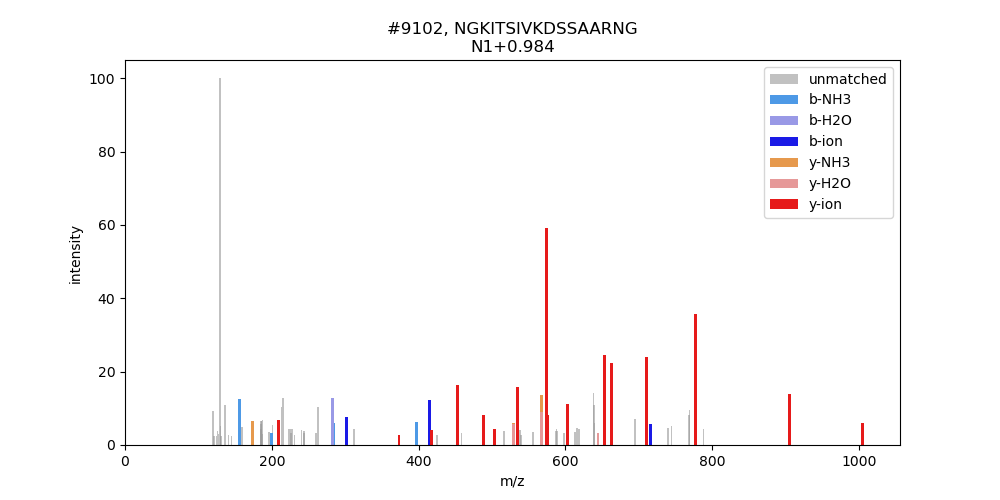
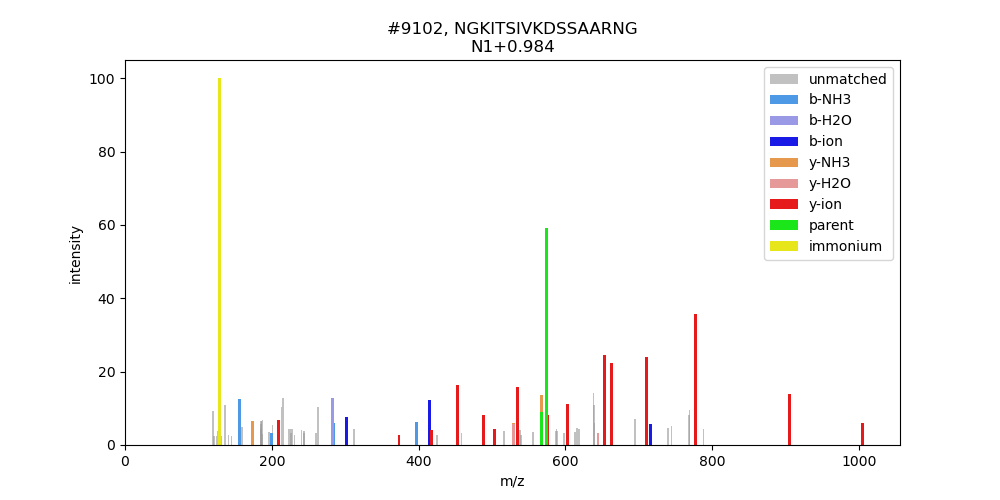
Add files via upload

Changed region(s): [[0.744, 0.42, 0.899, 0.51], [0.527, 0.81, 0.558, 0.9]]

diff --git a/scan_graph.py b/scan_graph.py
@@ -61,6 +61,8 @@ def GetDelta(_delta):
 			delta = -1.0*(isotopes['C'] + 4*isotopes['H'] + isotopes['S'] + isotopes['O'])
 		elif _delta == '-H3PO4':
 			delta = -1.0*(3*isotopes['H'] + isotopes['P'] + 4*isotopes['O'])
+		elif _delta == '-H5PO5':
+			delta = -1.0*(5*isotopes['H'] + isotopes['P'] + 5*isotopes['O'])
 		else:
 			# check to see if _delta is a number
 			try:
@@ -89,6 +91,52 @@ def GetYs(_pep,_delta = None):
 	for m in ms:
 		cvalue += m
 		rvs.append(cvalue)
+	return rvs
+
+# calculate the neutral masses of parent ions and fragments
+def GetParents(_pep):
+	difs = [GetDelta('-H2O'),2.0*GetDelta('-H2O')]
+	phospho = isotopes['H'] + 3*isotopes['O'] + isotopes['P']
+	for m in _pep['mods']:
+		if _pep['seq'][m-1] == 'M' and abs(_pep['mods'] - isotopes['O']) < 0.01:
+			difs.append(GetDelta('-CH4SO'))
+		elif _pep['seq'][m-1] == 'S' and abs(_pep['mods'] - phospho) < 0.01:
+			difs.append(GetDelta('-H3PO4'))
+			difs.append(GetDelta('-H5PO5'))
+		elif _pep['seq'][m-1] == 'T' and abs(_pep['mods'] - phospho) < 0.01:
+			difs.append(GetDelta('-H3PO4'))
+			difs.append(GetDelta('-H5PO5'))
+		elif _pep['seq'][m-1] == 'Y' and abs(_pep['mods'] - phospho) < 0.01:
+			difs.append(GetDelta('-H3PO4'))
+			difs.append(GetDelta('-H5PO5'))
+	dY = 2*isotopes['H'] + isotopes['O']
+	# reverse the peptide sequence
+	ss = list(_pep['seq'][::-1])
+	ms = []
+	l = len(_pep['seq'])
+	# create an array of residue masses
+	for i,aa in enumerate(ss):
+		if l-i in _pep['mods']:
+			ms.append(a_to_m[aa]+_pep['mods'][l-i])
+		else:
+			ms.append(a_to_m[aa])
+	rvs= []
+	cvalue = dY
+	# create an array of fragment masses
+	for m in ms:
+		cvalue += m
+	rvs.append(cvalue)
+	for d in difs:
+		rvs.append(cvalue+d)
+	return rvs
+
+# calculate the neutral masses of immonium ions
+def GetImmonium(_pep):
+	delta = isotopes['C'] + isotopes['O']
+	rvs= []
+	# create an array of fragment masses
+	for aa in _pep['seq']:
+		rvs.append(a_to_m[aa]-delta)
 	return rvs
 
 # calculate the neutral masses of B-type fragments

diff --git a/scan_graph_test.py b/scan_graph_test.py
@@ -2,7 +2,7 @@
 # Copyright © 2020 Ronald C. Beavis
 # Licensed under Apache License, Version 2.0, January 2004
 #
-from scan_graph import GetSpectrum,GetBs,GetCharge,GetYs,GetValues
+from scan_graph import GetSpectrum,GetBs,GetCharge,GetYs,GetValues,GetParents,GetImmonium
 import matplotlib.pyplot as plt
 import matplotlib.style
 import matplotlib as mpl
@@ -56,6 +56,26 @@ def main():
 				print('%s\t%i\t%.3f\t%.0f' % (it,z,p,pvals[1][i]))
 		peaks[it] = ps
 
+	# calculate parent ion & fragments
+	bvals = GetParents(peptide)
+	ps = [[],[]]
+	zvals = GetCharge(bvals,peptide['z'])
+	pvals = GetValues(zvals,expt,peptide['tol'])
+	# update the peak lists
+	ps[0] += pvals[0]
+	ps[1] += pvals[1]
+	peaks['parent'] = ps
+	
+	# calculate immonium ions
+	bvals = GetImmonium(peptide)
+	ps = [[],[]]
+	zvals = GetCharge(bvals,1)
+	pvals = GetValues(zvals,expt,peptide['tol'])
+	# update the peak lists
+	ps[0] += pvals[0]
+	ps[1] += pvals[1]
+	peaks['immonium'] = ps
+
 	# set up the plot
 	fig = plt.figure(figsize=(10, 5), dpi=100)
 	ax = fig.add_subplot(111)
@@ -76,6 +96,8 @@ def main():
 	# overwrite with matched peaks using the specified colors
 	for it in itypes:
 		ax.bar(peaks[it][0],peaks[it][1],color=itypes[it],width=4,label=it)
+	ax.bar(peaks['parent'][0],peaks['parent'][1],color=(0.1,0.9,0.1,1.0),width=4,label='parent')
+	ax.bar(peaks['immonium'][0],peaks['immonium'][1],color=(0.9,0.9,0.1,1.0),width=4,label='immonium')
 	# show the legend
 	ax.legend()
 	# save the plot to a PNG file
